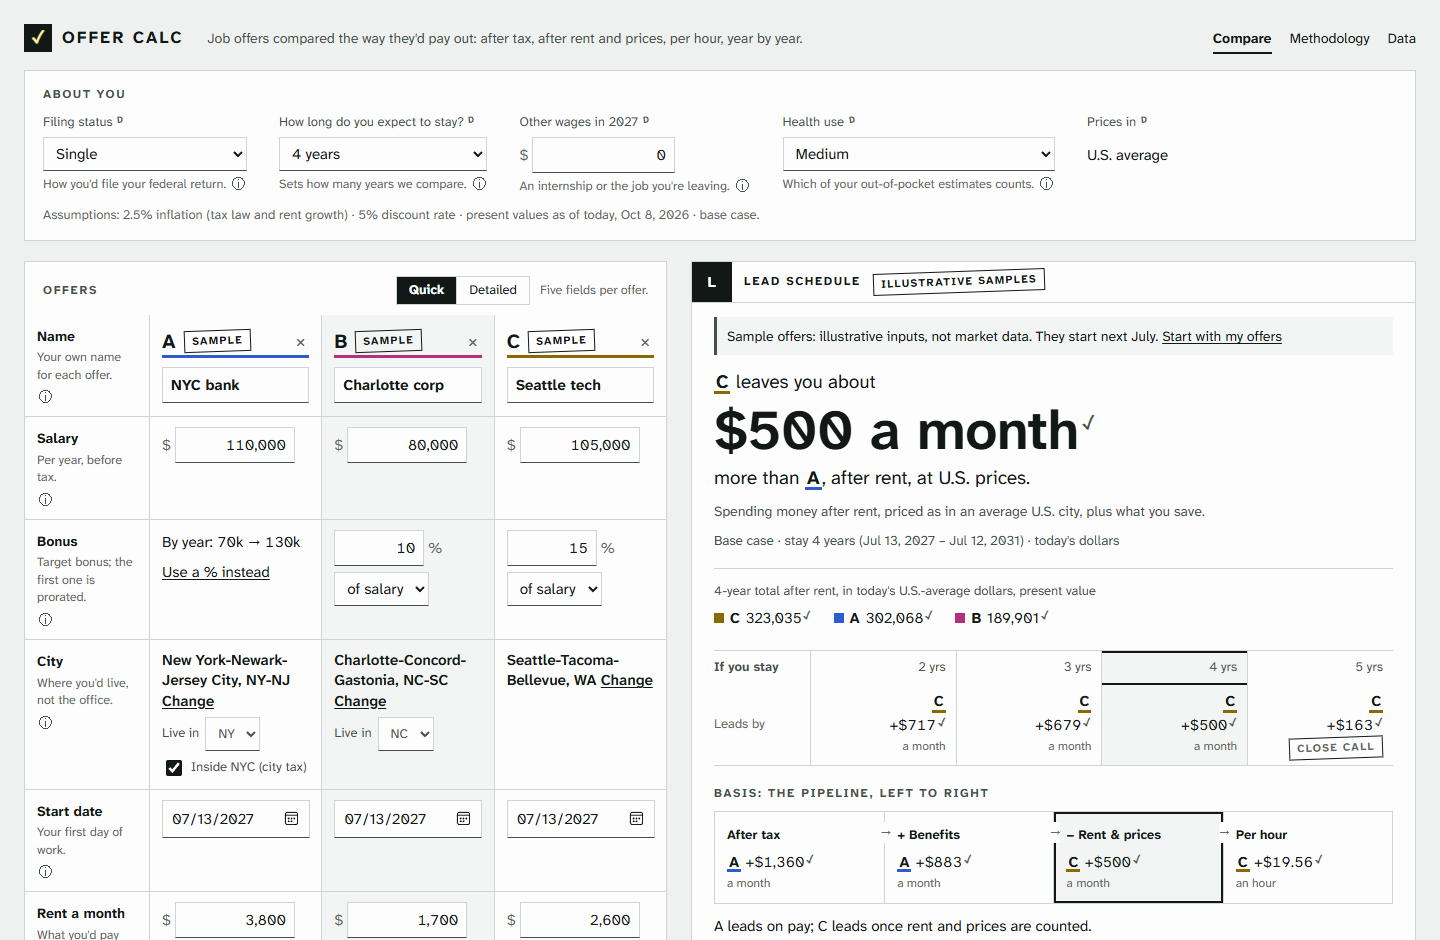
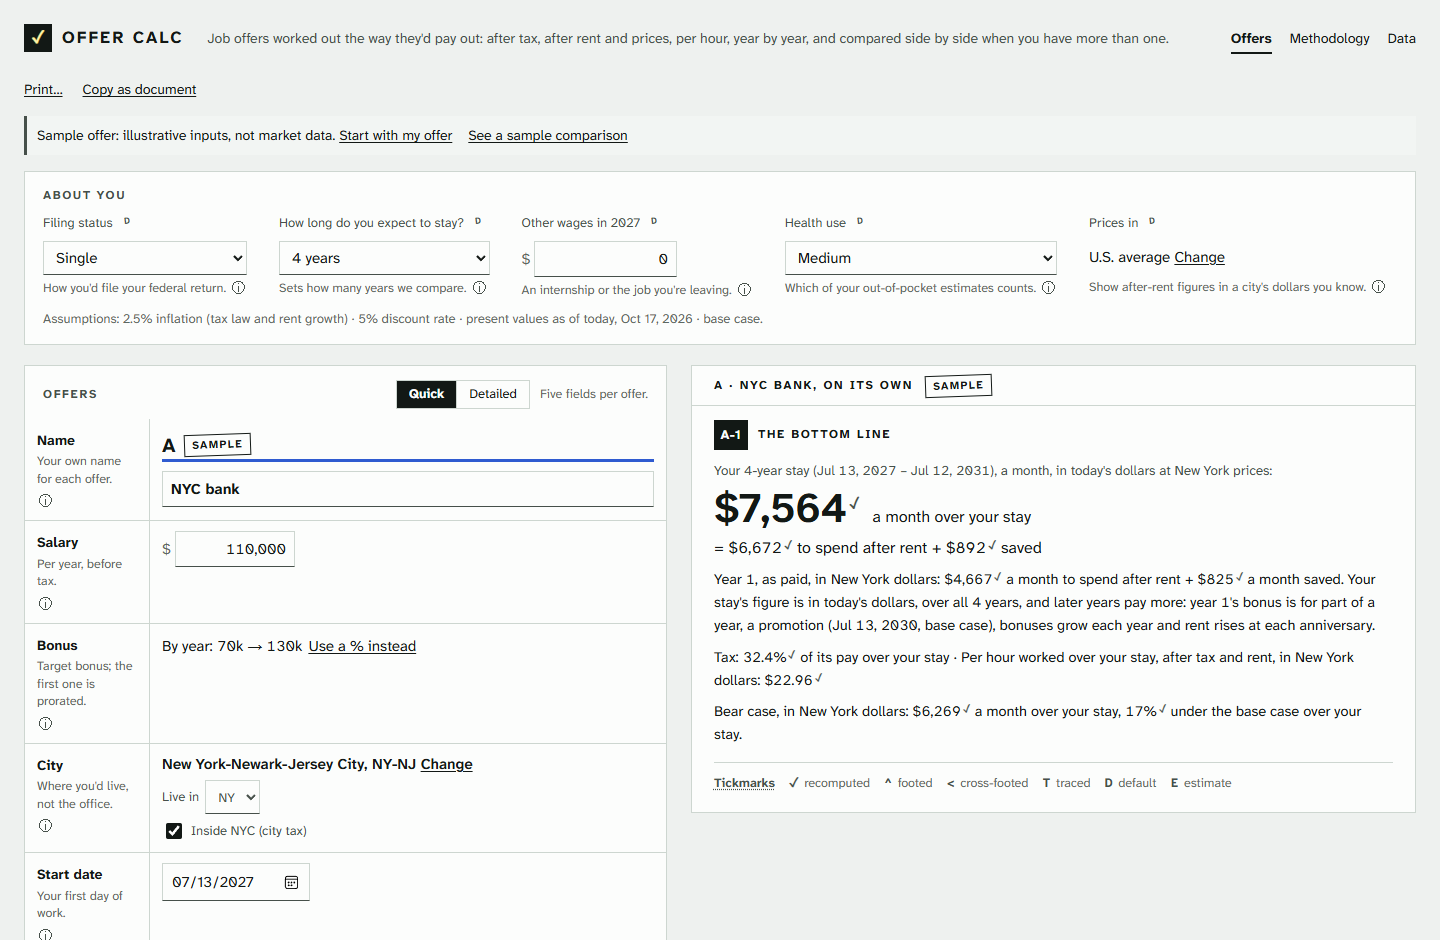
Refresh the README for the evaluator-first product
- What it does with one offer (its breakdown, A-1 to A-7), then with two or
  three (the comparison), and showing the work (tickmarks, Copy as document's
  summary or full detail, CSVs, Print...).
- A current screenshot: one offer's breakdown, a first visit at 1440 px
  (docs/screenshot.png; the old one predated slices 4 to 8).
- How it's validated: the "adds up as displayed" rule, the property tests,
  PolicyEngine-US, the unit tests and the accessibility scan.
- How it was built: with Claude Code under the author's direction, what each
  did, and when pull requests and the ruleset began; "every non-merge commit"
  (audit D10).
- Kept: the data attributions as they were, and "All rights reserved. Source
  shown for review only."

CLAUDE.md: D10 done; the pre-launch checklist retakes the screenshot only if
the page changes.

diff --git a/README.md b/README.md
@@ -1,40 +1,55 @@
 # Offer Calc
 
-Work out a job offer the way it would actually pay out: after federal, state, local and payroll tax,
-after rent and local prices, and per hour worked, year by year. Every offer gets its own breakdown,
-from its bottom line to every payment; two or three are compared side by side. Every figure shows its work.
+Work out a job offer the way it would actually pay out: from gross pay, after federal, state, local and payroll tax, after
+rent and local prices, and per hour worked, year by year over the years you expect to stay. Start with one offer and get its
+whole breakdown; add a second or a third, and a comparison appears beside each one's breakdown. Every figure shows its work.
 
 **Live:** https://offer-calc.vercel.app
 
-![Offer Calc comparing three illustrative sample offers: C leaves you about $500 a month more than A, after rent, at U.S. prices](docs/screenshot.png)
+![Offer Calc with one illustrative sample offer, a New York bank: its inputs on the left, and its bottom line pinned on the right, about $7,564 a month over a 4-year stay after tax and rent, in New York dollars, split into money to spend and money saved](docs/screenshot.png)
 
 *The sample offers are illustrative inputs, not market data.*
 
 ## What it does
 
-One pipeline, left to right, for two or three offers:
+### One offer
 
-1. **Gross pay:** salary, bonuses (as a percent, dollars, or by year), sign-ons and other cash, and
-   RSUs as they vest on the company's dates.
-2. **After tax:** federal income tax, Social Security and Medicare, state and local tax, each
-   calendar year, as the offer's share of your household's tax; less your health premiums.
-3. **+ Benefits (total rewards):** plus the employer 401(k) money you'd keep (vesting applied), perks
-   and employer HSA money, less expected out-of-pocket health costs.
-4. **− Rent & prices (after rent, at U.S. prices):** spending money after rent, priced as in an
-   average U.S. city (BEA Regional Price Parities), plus what you save at face value. This is the
-   default verdict.
-5. **Per hour:** step 4, after rent, divided by the hours you'd work, and what each extra hour pays.
+Enter an offer in quick mode (salary, bonus, city, start date and rent, which it estimates if you leave it blank) and its
+breakdown fills in, over its own stay and at its own city's prices:
 
-The verdict is a present value restated as a level amount a month over the years you expect to stay,
-with the winner for stays of 2 to 5 years beside it. Every figure carries an audit tickmark: click it to
-see its derivation with your values, the figures it uses, and its section of the
-[methodology](https://offer-calc.vercel.app/#/method). Quick mode asks for five fields per offer;
-detailed mode covers raises, promotions, bonus timing, RSU vesting, refreshers, the 401(k), health,
-perks, cash awards with clawbacks, and hours. Copy as document puts an offer's breakdown, the comparison, or
-both on the clipboard, tables and all, for a document or an email; each table also downloads as a CSV.
+- **A-1, the bottom line:** what it leaves you each month over your stay after tax and rent, split into money to spend and
+  money saved, in today's dollars; year 1 as paid; its tax rate; per hour worked; and the bad case.
+- **A-2, where the money goes:** each $100 of a year's pay as tax, rent, health costs, savings and spending, and the bridge
+  from the offer letter to what you'd have.
+- **A-3, pay by year,** and when each bonus, cash award and RSU vest arrives.
+- **A-4, the terms that can bite:** bonus rules, clawbacks and vesting cliffs, what staying until the next cliff is worth, and
+  what you'd keep if you left on a given day.
+- **A-5, what the benefits are worth:** the employer 401(k), HSA money and perks, against health costs.
+- **A-6, tax and warnings:** tax by calendar year, and warnings such as federal withholding falling short of what you'll owe.
+- **A-7, the work:** every line, payment and tax year behind the figures.
 
-It runs entirely in your browser: no account, no server, no analytics. What you enter is saved in
-this browser only, and the Data page exports it to a JSON file and imports it back.
+Each offer goes through the same pipeline: gross pay; after tax (each calendar year, as the offer's share of your household's
+tax, less your health premiums); plus benefits (total rewards: the employer 401(k) money you'd keep, perks and HSA money, less
+expected out-of-pocket costs); less rent and local prices (spending money priced with BEA's Regional Price Parities, savings at
+face value); and per hour worked.
+
+### Two or three offers
+
+Add an offer and the comparison appears: which leaves you more each month over your stay, and by how much, after tax, in total
+rewards, after rent and per hour, with the winner for stays of 2 to 5 years beside it; then by year (L-1), if things go badly
+(L-2), what it would take to tie (L-3), and leaving early (L-4). The comparison counts every offer over the same years and in the
+same dollars, priced as in an average U.S. city or in a city you pick; each offer's own breakdown stays in its own city's dollars.
+
+### Showing the work
+
+Every figure carries an audit tickmark: click it to see its derivation with your values, the figures it uses, and its section of
+the [methodology](https://offer-calc.vercel.app/#/method). Detailed mode covers raises, promotions, bonus timing, RSU vesting and
+refreshers, the 401(k), health, perks, cash awards with clawbacks, and hours. Copy as document puts an offer's breakdown (a summary
+or the full detail), the comparison, or both on the clipboard, tables and all, for a document or an email; every table downloads
+as a CSV; and Print… gives a summary or the full workpaper.
+
+It runs entirely in your browser: no account, no server, no analytics. What you enter is saved in this browser only, and the Data
+page exports it to a JSON file and imports it back. It informs a decision and shows its work; it never recommends a job.
 
 ## Setup
 
@@ -53,20 +68,30 @@ npm run offers      # the sample offers' tables, in the terminal
 The code: `src/tax` (the tax engine), `src/offer` (offers to dated, taxed payments; comparisons),
 `src/col` (BEA price levels and HUD rents), `src/format` (words for the engine's numbers), and `app/`
 (React 19 on Vite; the engine runs in a Web Worker). The design documents are
-[`docs/offer-model.md`](docs/offer-model.md) and [`docs/ui-design.md`](docs/ui-design.md).
+[`docs/offer-model.md`](docs/offer-model.md), [`docs/ui-design.md`](docs/ui-design.md) and
+[`docs/v2-plan.md`](docs/v2-plan.md).
 
-## Validation
+## How it's validated
 
-- **Unit tests** check hand-worked values at the edges: the day before and the day of a vest, a payout
-  or a window's end; tax thresholds and bracket crossings. The app's tests fail if any figure lacks a
-  tickmark, a methodology section or a derivation, if any input lacks its help, or if a default shown
-  in the app disagrees with the engine's.
+- **Every figure adds up as displayed.** Each figure is rounded once, where it's worked out, and every subtotal is the sum of the
+  rounded figures above it, so every column, every derivation, every CSV and the copied document foot exactly as shown; a test
+  fails on any that doesn't, and on any calculation the copied document states that doesn't work out as written.
+- **Property tests** ([fast-check](https://fast-check.dev)) generate offers and households the samples never reach (joint
+  filing, a later start, rent of $0, a sign-on paid before day one, fractional vesting, ranges) and check that every derivation
+  foots as displayed, no figure is undefined, and one figure reads the same everywhere it appears. A nightly run tries ten times
+  as many on a new random seed, and shrinks any failure it finds to its smallest case, which its seed replays.
 - **The tax engine is checked against [PolicyEngine-US](https://github.com/PolicyEngine/policyengine-us)**
   (version 2.30.3) for 2026 law, on wages from $40,000 to $320,000 for every state and DC, single and
   married filing jointly. Social Security, Medicare and state payroll taxes match exactly; New York
   City within $0.48. For single filers from $60,000 to $200,000, federal income tax is within $5 in 50
   of 51 places and state income tax in 42 of 51 (44 within $6). The differences that remain, and the
   ones that are intentional, are listed in the methodology (M-4, M-10).
+- **Unit tests** check hand-worked values at the edges: the day before and the day of a vest, a payout
+  or a window's end; tax thresholds and bracket crossings. The app's tests fail if any figure lacks a
+  tickmark, a methodology section or a derivation, if any input lacks its help, if a default shown
+  in the app disagrees with the engine's, or if an after-rent figure doesn't say whose dollars it's in.
+- **Accessibility:** an axe scan for WCAG 2.2 A and AA covers each state of the page (one offer and its parts, the comparison, the
+  editors, Show the work, print, the copy choice) on a desktop, a tablet and a phone, in light and dark.
 
 To run the comparison yourself (a few minutes; it writes `oracle_report.json`), install PolicyEngine
 into a virtual environment named `.venv`, which `npm run oracle` uses automatically. `requirements-lock.txt`
@@ -109,8 +134,13 @@ The sample offers are illustrative inputs, not market data. Nothing here is tax 
 
 ## How it was built
 
-Built with [Claude Code](https://claude.com/claude-code), Anthropic's AI coding assistant, with the
-design, decisions and review by the author. Every commit carries a "Co-Authored-By: Claude" trailer.
+Offer Calc was built with [Claude Code](https://claude.com/claude-code), Anthropic's AI coding assistant, working under the
+direction of its author. The author decided what to build and in what order, set the rules it follows (show the work, never
+recommend a job, every figure adds up as displayed), made the calls recorded in its design documents, reviewed every stage
+with screenshots of the live site, and tried it with real offers. Claude Code wrote the code, the tests and the documentation,
+and proposed designs that the author approved or changed. Since its second day (2026-10-08) every change has reached `main` through a
+pull request, and since 2026-10-15 none can merge until the tests, the accessibility scan and the load-time budget pass. Every
+non-merge commit carries a "Co-Authored-By: Claude" trailer.
 
 ## License
 

diff --git a/CLAUDE.md b/CLAUDE.md
@@ -65,8 +65,9 @@ section 2's and the plan's in step):
    and the tickmark setting): the user runs it and sends
    the Speech Viewer log; fix what it finds. With it, a VoiceOver pass on a phone for the offer tabs and the verdict bar.
 4. **The audit's "fix before going public" items** (its table): C6, C7, C16-C19, C24, C25, C27, C28, T6, T7, T9, S1, S2's
-   `npm audit` step, D9-D11, P5-P7.
-5. **Retake the README's screenshot** (D10), and check the README and M-4 against the oracle report, and the docs against the code.
+   `npm audit` step, D9, D11, P5-P7. (D10, the README's drift, was fixed 2026-10-17 with the README's refresh.)
+5. **Retake the README's screenshot** if the page has changed since 2026-10-17 (one offer's breakdown, a first visit at 1440 px:
+   `.claude/review/readme/shots.e2e.ts`), and check the README and M-4 against the oracle report, and the docs against the code.
 
 ## 4. Working agreements
 - **Pull requests:** one branch per slice or fix; every change reaches `main` through a pull request. Enforced since 2026-10-15 by
@@ -466,4 +467,4 @@ The one list; the methodology's M-10 says the same in plain words. Rough priorit
 | `docs/ui-slices-4-8-plan.md`, `docs/slice-3-plan.md`, `docs/copy-as-document-plan.md` | Plans, each built (the last with `copy-as-document-sample.html`) | Done; `slice-3-plan.md`'s public-repo settings (item 7) still apply |
 | `docs/nvda-walkthrough.md` | The screen-reader script | Updated for item 5 (2026-10-16); needs D11's other steps (Print…, the tickmark setting) before it's run |
 | `docs/history.md` | What CLAUDE.md recorded before 2026-10-15: each slice, the sizes and load times, dated rationale | Archive, not maintained |
-| `README.md` | The project for a visitor: what it does, sources, how to run it | Current, except the screenshot (D10) |
+| `README.md` | The project for a visitor: what it does with one offer and with more, how it's validated, sources, how it was built | Current (refreshed 2026-10-17, with its screenshot) |
